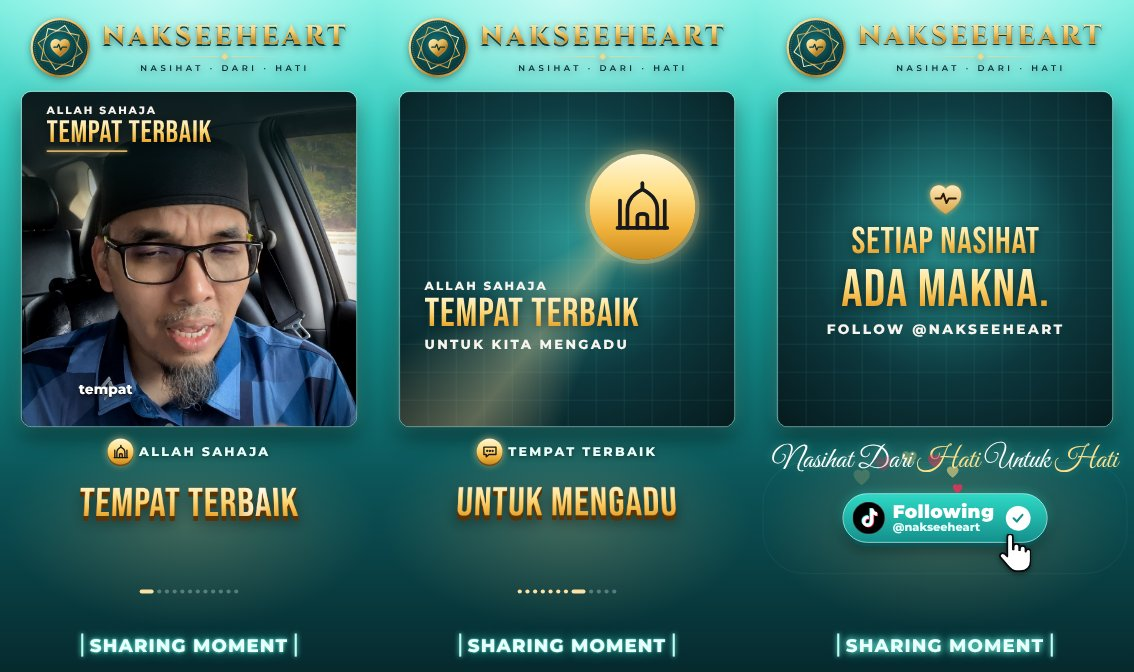
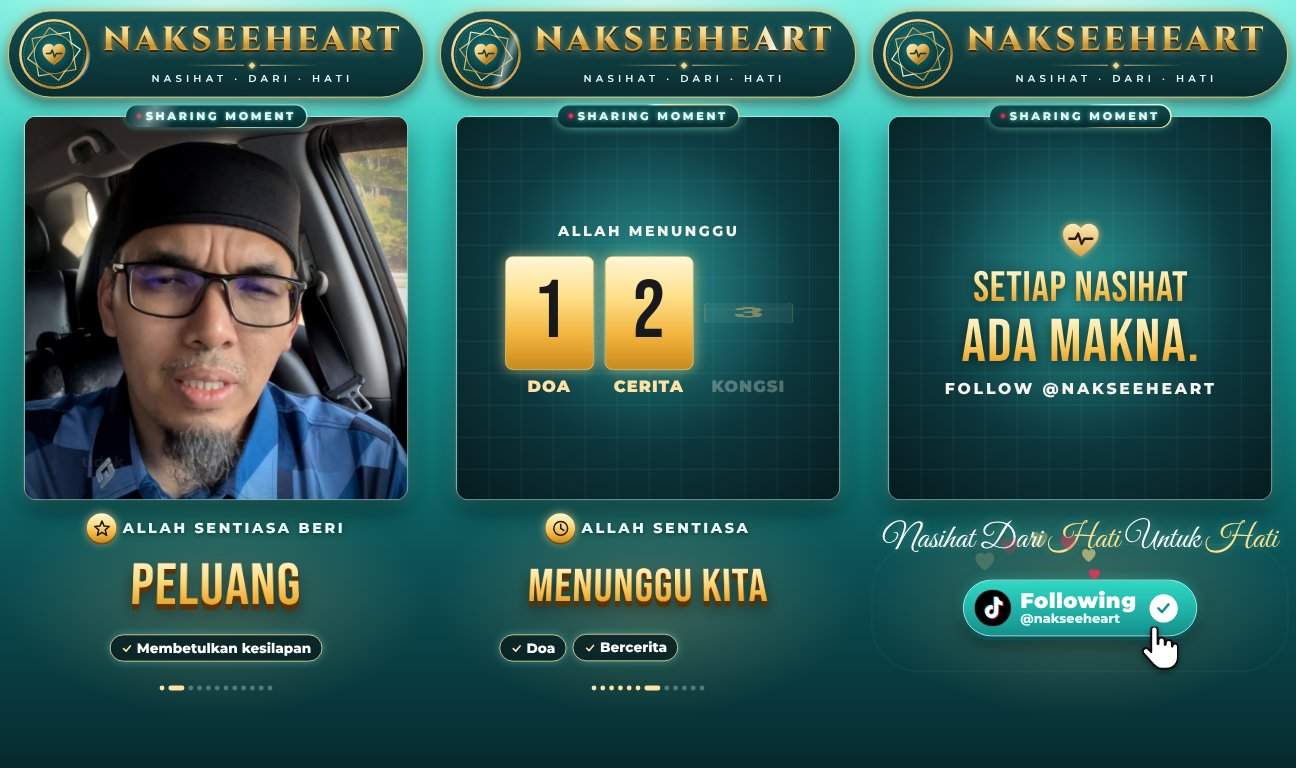
Nasihat V4: SHARING MOMENT jadi label kecil atas panel dengan cahaya bergerak
Claude-Session: https://claude.ai/code/session_012bACtUvdqMXn5RVzcwWnfk

diff --git a/styles/nasihat-v4/overlay/src/Showcase.tsx b/styles/nasihat-v4/overlay/src/Showcase.tsx
@@ -276,14 +276,14 @@ const Point3D: React.FC<{ p: Point; idx: number }> = ({ p, idx }) => {
   return (
     <AbsoluteFill style={{ opacity: o }}>
       {/* nombor point + ikon */}
-      <div style={{ position: 'absolute', left: 540, top: 1290, transform: `translate(-50%,-50%) scale(${0.6 + 0.4 * pin})`, display: 'flex', alignItems: 'center', gap: 16 }}>
+      <div style={{ position: 'absolute', left: 540, top: 1320, transform: `translate(-50%,-50%) scale(${0.6 + 0.4 * pin})`, display: 'flex', alignItems: 'center', gap: 16 }}>
         <div style={{ width: 74, height: 74, borderRadius: '50%', background: GOLD, display: 'flex', alignItems: 'center', justifyContent: 'center', boxShadow: '0 5px 0 #7A4A0C, 0 0 24px rgba(255,214,140,0.7)' }}>
           <LineIcon name={p.icon} size={48} color={C.charcoal} stroke={8} />
         </div>
         <div style={{ fontFamily: FONT.sans, fontWeight: 800, fontSize: 36, letterSpacing: '0.18em', color: '#E9FFFB', textShadow: '0 3px 12px rgba(0,0,0,0.5)', whiteSpace: 'nowrap' }}>{p.small}</div>
       </div>
       {/* tulisan 3D emas */}
-      <div style={{ position: 'absolute', left: 540, top: 1440 + bob, transform: `translate(-50%,-50%) perspective(1200px) rotateX(${(1 - pin) * 60 + 12}deg) scale(${0.85 + 0.15 * pin})`, whiteSpace: 'nowrap' }}>
+      <div style={{ position: 'absolute', left: 540, top: 1470 + bob, transform: `translate(-50%,-50%) perspective(1200px) rotateX(${(1 - pin) * 60 + 12}deg) scale(${0.85 + 0.15 * pin})`, whiteSpace: 'nowrap' }}>
         <div style={{ position: 'relative', fontFamily: FONT.display, fontSize: size, lineHeight: 1, letterSpacing: '0.02em' }}>
           <div style={{ color: '#7A4A0C', textShadow: Array.from({ length: 12 }, (_, i) => `0 ${i * 1.3}px 0 #5A3406`).join(', ') + ', 0 24px 40px rgba(0,0,0,0.55)' }}>{p.big}</div>
           <div style={{ position: 'absolute', inset: 0, backgroundImage: GOLD, WebkitBackgroundClip: 'text', backgroundClip: 'text', color: 'transparent' }}>{p.big}</div>
@@ -293,7 +293,7 @@ const Point3D: React.FC<{ p: Point; idx: number }> = ({ p, idx }) => {
       </div>
       {/* cip point */}
       {p.chips && (
-        <div style={{ position: 'absolute', left: 540, top: 1590, transform: 'translate(-50%,-50%)', display: 'flex', gap: 16 }}>
+        <div style={{ position: 'absolute', left: 540, top: 1620, transform: 'translate(-50%,-50%)', display: 'flex', gap: 16 }}>
           {p.chips.map((c, i) => {
             const q = tw(t, [c.at - 0.1, c.at + 0.35], [0, 1], back);
             return (
@@ -307,7 +307,7 @@ const Point3D: React.FC<{ p: Point; idx: number }> = ({ p, idx }) => {
         </div>
       )}
       {/* penanda kemajuan */}
-      <div style={{ position: 'absolute', left: 540, top: 1690, transform: 'translate(-50%,-50%)', display: 'flex', gap: 10 }}>
+      <div style={{ position: 'absolute', left: 540, top: 1720, transform: 'translate(-50%,-50%)', display: 'flex', gap: 10 }}>
         {PTS.map((_, i) => <div key={i} style={{ width: i === idx ? 40 : 12, height: 12, borderRadius: 6, background: i <= idx ? C.goldLight : 'rgba(233,255,251,0.3)' }} />)}
       </div>
     </AbsoluteFill>
@@ -336,20 +336,20 @@ const FollowCTA: React.FC = () => {
   const pulse = done ? 1 : 1 + 0.03 * Math.sin((t - B.cta) * 7);
   // kursor tangan masuk dari kanan bawah ke butang
   const cur = tw(t, [B.cta + 1.0, CLICK - 0.1], [0, 1], easeOut);
-  const cx = 540 + 150 + (1 - cur) * 330, cy = 1525 + (1 - cur) * 330;
+  const cx = 540 + 150 + (1 - cur) * 330, cy = 1565 + (1 - cur) * 330;
   const curO = tw(t, [B.cta + 1.0, B.cta + 1.2], [0, 1]) * tw(t, [CLICK + 0.9, CLICK + 1.3], [1, 0]);
   const rip = tw(t, [CLICK, CLICK + 0.7], [0, 1], easeOut);
   return (
     <AbsoluteFill>
       {/* kapsyen tandatangan */}
-      <div style={{ position: 'absolute', left: 0, right: 0, top: 1265, textAlign: 'center' }}>
+      <div style={{ position: 'absolute', left: 0, right: 0, top: 1300, textAlign: 'center' }}>
         <div style={{ display: 'inline-block', fontFamily: "'Great Vibes', cursive", fontSize: 84, lineHeight: 1.2, color: '#FFFFFF', padding: '0 30px', whiteSpace: 'nowrap',
           textShadow: '0 0 20px rgba(120,255,235,0.6), 0 4px 12px rgba(0,0,0,0.4)', clipPath: `inset(-30% ${100 - capIn * 100}% -30% -5%)` }}>
           {SC.cta.caption.split(/(\*[^*]+\*)/).map((w, i) => w.startsWith('*') ? <span key={i} style={{ color: '#FFE08A' }}>{w.slice(1, -1)}</span> : <React.Fragment key={i}>{w}</React.Fragment>)}
         </div>
       </div>
       {/* butang Follow TikTok */}
-      <div style={{ position: 'absolute', left: 540, top: 1480, transform: `translate(-50%,-50%) scale(${btnIn * press * pulse})`, opacity: Math.min(1, btnIn * 1.5) }}>
+      <div style={{ position: 'absolute', left: 540, top: 1520, transform: `translate(-50%,-50%) scale(${btnIn * press * pulse})`, opacity: Math.min(1, btnIn * 1.5) }}>
         <div style={{ position: 'absolute', left: '50%', top: '50%', width: 760 * (0.6 + rip * 0.8), height: 150 * (0.6 + rip * 1.6), borderRadius: 120,
           transform: 'translate(-50%,-50%)', border: '4px solid rgba(191,255,245,0.9)', opacity: done ? 1 - rip : 0 }} />
         <div style={{ display: 'flex', alignItems: 'center', gap: 22, padding: '22px 46px 22px 26px', borderRadius: 80, whiteSpace: 'nowrap',
@@ -374,7 +374,7 @@ const FollowCTA: React.FC = () => {
       {done && Array.from({ length: 8 }, (_, i) => {
         const q = tw(t, [CLICK + i * 0.05, CLICK + 1.2 + i * 0.05], [0, 1], easeOut);
         const ang = -Math.PI / 2 + (i - 3.5) * 0.32;
-        return <div key={i} style={{ position: 'absolute', left: 540 + Math.cos(ang) * 320 * q, top: 1440 + Math.sin(ang) * 220 * q, opacity: (1 - q) * (q > 0 ? 1 : 0),
+        return <div key={i} style={{ position: 'absolute', left: 540 + Math.cos(ang) * 320 * q, top: 1480 + Math.sin(ang) * 220 * q, opacity: (1 - q) * (q > 0 ? 1 : 0),
           transform: `translate(-50%,-50%) scale(${0.6 + q})`, fontSize: 0 }}>
           <svg width="44" height="40" viewBox="0 0 24 22"><path d="M12 21s-9-5.6-9-12A5 5 0 0 1 12 6a5 5 0 0 1 9 3c0 6.4-9 12-9 12z" fill={i % 2 ? '#FE2C55' : '#FFE08A'} /></svg>
         </div>;
@@ -455,6 +455,30 @@ const PremiumLogo: React.FC = () => {
   );
 };
 
+/* ------------------------------------------------- label kecil SHARING MOMENT (atas panel) + cahaya bergerak */
+const MomentBadge: React.FC<{ y: number }> = ({ y }) => {
+  const t = useTime();
+  const pin = tw(t, [0.6, 1.2], [0, 1], back);
+  const ang = (t * 140) % 360; // cahaya berlari di sekeliling bingkai
+  const sw = ((t * 0.55) % 1) * 300 - 100; // sapuan cahaya pada teks
+  const glow = 0.55 + 0.45 * Math.sin(t * 3.2);
+  return (
+    <div style={{ position: 'absolute', left: 540, top: y, transform: `translate(-50%,-50%) scale(${pin})`, opacity: Math.min(1, pin * 1.5) }}>
+      <div style={{ padding: 3, borderRadius: 40, background: `conic-gradient(from ${ang}deg, rgba(120,255,235,0.15) 0deg, #BFFFF5 40deg, #FFE08A 70deg, rgba(120,255,235,0.15) 120deg, rgba(120,255,235,0.15) 360deg)`,
+        boxShadow: `0 0 ${14 + 14 * glow}px rgba(120,255,235,${0.45 + 0.35 * glow}), 0 8px 18px rgba(0,0,0,0.45)` }}>
+        <div style={{ position: 'relative', overflow: 'hidden', display: 'flex', alignItems: 'center', gap: 12, padding: '9px 26px', borderRadius: 37,
+          background: 'linear-gradient(180deg, #0E4A4E 0%, #062A2E 100%)' }}>
+          <div style={{ width: 12, height: 12, borderRadius: '50%', background: '#FE2C55', boxShadow: `0 0 ${6 + 8 * glow}px rgba(254,44,85,0.9)`, opacity: 0.6 + 0.4 * glow }} />
+          <span style={{ fontFamily: FONT.sans, fontWeight: 800, fontSize: 28, letterSpacing: '0.24em', color: '#E9FFFB', whiteSpace: 'nowrap',
+            textShadow: `0 0 ${8 + 8 * glow}px rgba(120,255,235,0.85)` }}>{SC.label}</span>
+          <div style={{ position: 'absolute', top: -10, bottom: -10, left: `${sw}%`, width: '28%', transform: 'skewX(-24deg)',
+            background: 'linear-gradient(90deg, rgba(255,255,255,0), rgba(255,255,255,0.38), rgba(255,255,255,0))' }} />
+        </div>
+      </div>
+    </div>
+  );
+};
+
 /** Bingkai 9:16: tandatangan di atas, SATU panel suntingan, point penting 3D di bawah */
 export const Showcase: React.FC = () => {
   const t = useTime();
@@ -465,7 +489,7 @@ export const Showcase: React.FC = () => {
       <AbsoluteFill style={{ background: 'radial-gradient(ellipse 70% 22% at 50% 78%, rgba(255,214,140,0.22), rgba(0,0,0,0) 70%)' }} />
       <PremiumLogo />
       {/* SATU panel suntingan */}
-      <div style={{ position: 'absolute', left: 60, top: 260, width: FW, height: FW, borderRadius: 30, overflow: 'hidden', border: '3px solid rgba(255,255,255,0.65)', boxShadow: '0 30px 60px rgba(0,0,0,0.45), 0 0 40px rgba(120,255,235,0.35)' }}>
+      <div style={{ position: 'absolute', left: 60, top: 290, width: FW, height: FW, borderRadius: 30, overflow: 'hidden', border: '3px solid rgba(255,255,255,0.65)', boxShadow: '0 30px 60px rgba(0,0,0,0.45), 0 0 40px rgba(120,255,235,0.35)' }}>
         <div style={{ width: SQ, height: SQ, transform: `scale(${FW / SQ})`, transformOrigin: '0 0' }}>
           <KineticFinal />
         </div>
@@ -473,15 +497,7 @@ export const Showcase: React.FC = () => {
       {/* point penting: tulisan 3D + motion graphics */}
       {PTS.map((p, i) => <Point3D key={i} p={p} idx={i} />)}
       <FollowCTA />
-      {/* label neon */}
-      <div style={{ position: 'absolute', left: 0, right: 0, top: 1810, display: 'flex', justifyContent: 'center' }}>
-        <div style={{ display: 'flex', alignItems: 'center', gap: 18, fontFamily: FONT.sans, fontWeight: 700, fontSize: 52, letterSpacing: '0.06em', color: '#E9FFFB',
-          textShadow: `0 0 ${12 + 6 * Math.sin(t * 3)}px rgba(120,255,235,0.95), 0 0 34px rgba(64,224,208,0.85)` }}>
-          <span style={{ width: 6, height: 66, background: '#BFFFF5', boxShadow: '0 0 16px rgba(120,255,235,1)' }} />
-          {SC.label}
-          <span style={{ width: 6, height: 66, background: '#BFFFF5', boxShadow: '0 0 16px rgba(120,255,235,1)' }} />
-        </div>
-      </div>
+      <MomentBadge y={290} />
       <Audio src={staticFile('audio/mix.wav')} />
     </AbsoluteFill>
   );

diff --git a/video-nakseeheart-allah-beri-peluang/src/Showcase.tsx b/video-nakseeheart-allah-beri-peluang/src/Showcase.tsx
@@ -276,14 +276,14 @@ const Point3D: React.FC<{ p: Point; idx: number }> = ({ p, idx }) => {
   return (
     <AbsoluteFill style={{ opacity: o }}>
       {/* nombor point + ikon */}
-      <div style={{ position: 'absolute', left: 540, top: 1290, transform: `translate(-50%,-50%) scale(${0.6 + 0.4 * pin})`, display: 'flex', alignItems: 'center', gap: 16 }}>
+      <div style={{ position: 'absolute', left: 540, top: 1320, transform: `translate(-50%,-50%) scale(${0.6 + 0.4 * pin})`, display: 'flex', alignItems: 'center', gap: 16 }}>
         <div style={{ width: 74, height: 74, borderRadius: '50%', background: GOLD, display: 'flex', alignItems: 'center', justifyContent: 'center', boxShadow: '0 5px 0 #7A4A0C, 0 0 24px rgba(255,214,140,0.7)' }}>
           <LineIcon name={p.icon} size={48} color={C.charcoal} stroke={8} />
         </div>
         <div style={{ fontFamily: FONT.sans, fontWeight: 800, fontSize: 36, letterSpacing: '0.18em', color: '#E9FFFB', textShadow: '0 3px 12px rgba(0,0,0,0.5)', whiteSpace: 'nowrap' }}>{p.small}</div>
       </div>
       {/* tulisan 3D emas */}
-      <div style={{ position: 'absolute', left: 540, top: 1440 + bob, transform: `translate(-50%,-50%) perspective(1200px) rotateX(${(1 - pin) * 60 + 12}deg) scale(${0.85 + 0.15 * pin})`, whiteSpace: 'nowrap' }}>
+      <div style={{ position: 'absolute', left: 540, top: 1470 + bob, transform: `translate(-50%,-50%) perspective(1200px) rotateX(${(1 - pin) * 60 + 12}deg) scale(${0.85 + 0.15 * pin})`, whiteSpace: 'nowrap' }}>
         <div style={{ position: 'relative', fontFamily: FONT.display, fontSize: size, lineHeight: 1, letterSpacing: '0.02em' }}>
           <div style={{ color: '#7A4A0C', textShadow: Array.from({ length: 12 }, (_, i) => `0 ${i * 1.3}px 0 #5A3406`).join(', ') + ', 0 24px 40px rgba(0,0,0,0.55)' }}>{p.big}</div>
           <div style={{ position: 'absolute', inset: 0, backgroundImage: GOLD, WebkitBackgroundClip: 'text', backgroundClip: 'text', color: 'transparent' }}>{p.big}</div>
@@ -293,7 +293,7 @@ const Point3D: React.FC<{ p: Point; idx: number }> = ({ p, idx }) => {
       </div>
       {/* cip point */}
       {p.chips && (
-        <div style={{ position: 'absolute', left: 540, top: 1590, transform: 'translate(-50%,-50%)', display: 'flex', gap: 16 }}>
+        <div style={{ position: 'absolute', left: 540, top: 1620, transform: 'translate(-50%,-50%)', display: 'flex', gap: 16 }}>
           {p.chips.map((c, i) => {
             const q = tw(t, [c.at - 0.1, c.at + 0.35], [0, 1], back);
             return (
@@ -307,7 +307,7 @@ const Point3D: React.FC<{ p: Point; idx: number }> = ({ p, idx }) => {
         </div>
       )}
       {/* penanda kemajuan */}
-      <div style={{ position: 'absolute', left: 540, top: 1690, transform: 'translate(-50%,-50%)', display: 'flex', gap: 10 }}>
+      <div style={{ position: 'absolute', left: 540, top: 1720, transform: 'translate(-50%,-50%)', display: 'flex', gap: 10 }}>
         {PTS.map((_, i) => <div key={i} style={{ width: i === idx ? 40 : 12, height: 12, borderRadius: 6, background: i <= idx ? C.goldLight : 'rgba(233,255,251,0.3)' }} />)}
       </div>
     </AbsoluteFill>
@@ -336,20 +336,20 @@ const FollowCTA: React.FC = () => {
   const pulse = done ? 1 : 1 + 0.03 * Math.sin((t - B.cta) * 7);
   // kursor tangan masuk dari kanan bawah ke butang
   const cur = tw(t, [B.cta + 1.0, CLICK - 0.1], [0, 1], easeOut);
-  const cx = 540 + 150 + (1 - cur) * 330, cy = 1525 + (1 - cur) * 330;
+  const cx = 540 + 150 + (1 - cur) * 330, cy = 1565 + (1 - cur) * 330;
   const curO = tw(t, [B.cta + 1.0, B.cta + 1.2], [0, 1]) * tw(t, [CLICK + 0.9, CLICK + 1.3], [1, 0]);
   const rip = tw(t, [CLICK, CLICK + 0.7], [0, 1], easeOut);
   return (
     <AbsoluteFill>
       {/* kapsyen tandatangan */}
-      <div style={{ position: 'absolute', left: 0, right: 0, top: 1265, textAlign: 'center' }}>
+      <div style={{ position: 'absolute', left: 0, right: 0, top: 1300, textAlign: 'center' }}>
         <div style={{ display: 'inline-block', fontFamily: "'Great Vibes', cursive", fontSize: 84, lineHeight: 1.2, color: '#FFFFFF', padding: '0 30px', whiteSpace: 'nowrap',
           textShadow: '0 0 20px rgba(120,255,235,0.6), 0 4px 12px rgba(0,0,0,0.4)', clipPath: `inset(-30% ${100 - capIn * 100}% -30% -5%)` }}>
           {SC.cta.caption.split(/(\*[^*]+\*)/).map((w, i) => w.startsWith('*') ? <span key={i} style={{ color: '#FFE08A' }}>{w.slice(1, -1)}</span> : <React.Fragment key={i}>{w}</React.Fragment>)}
         </div>
       </div>
       {/* butang Follow TikTok */}
-      <div style={{ position: 'absolute', left: 540, top: 1480, transform: `translate(-50%,-50%) scale(${btnIn * press * pulse})`, opacity: Math.min(1, btnIn * 1.5) }}>
+      <div style={{ position: 'absolute', left: 540, top: 1520, transform: `translate(-50%,-50%) scale(${btnIn * press * pulse})`, opacity: Math.min(1, btnIn * 1.5) }}>
         <div style={{ position: 'absolute', left: '50%', top: '50%', width: 760 * (0.6 + rip * 0.8), height: 150 * (0.6 + rip * 1.6), borderRadius: 120,
           transform: 'translate(-50%,-50%)', border: '4px solid rgba(191,255,245,0.9)', opacity: done ? 1 - rip : 0 }} />
         <div style={{ display: 'flex', alignItems: 'center', gap: 22, padding: '22px 46px 22px 26px', borderRadius: 80, whiteSpace: 'nowrap',
@@ -374,7 +374,7 @@ const FollowCTA: React.FC = () => {
       {done && Array.from({ length: 8 }, (_, i) => {
         const q = tw(t, [CLICK + i * 0.05, CLICK + 1.2 + i * 0.05], [0, 1], easeOut);
         const ang = -Math.PI / 2 + (i - 3.5) * 0.32;
-        return <div key={i} style={{ position: 'absolute', left: 540 + Math.cos(ang) * 320 * q, top: 1440 + Math.sin(ang) * 220 * q, opacity: (1 - q) * (q > 0 ? 1 : 0),
+        return <div key={i} style={{ position: 'absolute', left: 540 + Math.cos(ang) * 320 * q, top: 1480 + Math.sin(ang) * 220 * q, opacity: (1 - q) * (q > 0 ? 1 : 0),
           transform: `translate(-50%,-50%) scale(${0.6 + q})`, fontSize: 0 }}>
           <svg width="44" height="40" viewBox="0 0 24 22"><path d="M12 21s-9-5.6-9-12A5 5 0 0 1 12 6a5 5 0 0 1 9 3c0 6.4-9 12-9 12z" fill={i % 2 ? '#FE2C55' : '#FFE08A'} /></svg>
         </div>;
@@ -455,6 +455,30 @@ const PremiumLogo: React.FC = () => {
   );
 };
 
+/* ------------------------------------------------- label kecil SHARING MOMENT (atas panel) + cahaya bergerak */
+const MomentBadge: React.FC<{ y: number }> = ({ y }) => {
+  const t = useTime();
+  const pin = tw(t, [0.6, 1.2], [0, 1], back);
+  const ang = (t * 140) % 360; // cahaya berlari di sekeliling bingkai
+  const sw = ((t * 0.55) % 1) * 300 - 100; // sapuan cahaya pada teks
+  const glow = 0.55 + 0.45 * Math.sin(t * 3.2);
+  return (
+    <div style={{ position: 'absolute', left: 540, top: y, transform: `translate(-50%,-50%) scale(${pin})`, opacity: Math.min(1, pin * 1.5) }}>
+      <div style={{ padding: 3, borderRadius: 40, background: `conic-gradient(from ${ang}deg, rgba(120,255,235,0.15) 0deg, #BFFFF5 40deg, #FFE08A 70deg, rgba(120,255,235,0.15) 120deg, rgba(120,255,235,0.15) 360deg)`,
+        boxShadow: `0 0 ${14 + 14 * glow}px rgba(120,255,235,${0.45 + 0.35 * glow}), 0 8px 18px rgba(0,0,0,0.45)` }}>
+        <div style={{ position: 'relative', overflow: 'hidden', display: 'flex', alignItems: 'center', gap: 12, padding: '9px 26px', borderRadius: 37,
+          background: 'linear-gradient(180deg, #0E4A4E 0%, #062A2E 100%)' }}>
+          <div style={{ width: 12, height: 12, borderRadius: '50%', background: '#FE2C55', boxShadow: `0 0 ${6 + 8 * glow}px rgba(254,44,85,0.9)`, opacity: 0.6 + 0.4 * glow }} />
+          <span style={{ fontFamily: FONT.sans, fontWeight: 800, fontSize: 28, letterSpacing: '0.24em', color: '#E9FFFB', whiteSpace: 'nowrap',
+            textShadow: `0 0 ${8 + 8 * glow}px rgba(120,255,235,0.85)` }}>{SC.label}</span>
+          <div style={{ position: 'absolute', top: -10, bottom: -10, left: `${sw}%`, width: '28%', transform: 'skewX(-24deg)',
+            background: 'linear-gradient(90deg, rgba(255,255,255,0), rgba(255,255,255,0.38), rgba(255,255,255,0))' }} />
+        </div>
+      </div>
+    </div>
+  );
+};
+
 /** Bingkai 9:16: tandatangan di atas, SATU panel suntingan, point penting 3D di bawah */
 export const Showcase: React.FC = () => {
   const t = useTime();
@@ -465,7 +489,7 @@ export const Showcase: React.FC = () => {
       <AbsoluteFill style={{ background: 'radial-gradient(ellipse 70% 22% at 50% 78%, rgba(255,214,140,0.22), rgba(0,0,0,0) 70%)' }} />
       <PremiumLogo />
       {/* SATU panel suntingan */}
-      <div style={{ position: 'absolute', left: 60, top: 260, width: FW, height: FW, borderRadius: 30, overflow: 'hidden', border: '3px solid rgba(255,255,255,0.65)', boxShadow: '0 30px 60px rgba(0,0,0,0.45), 0 0 40px rgba(120,255,235,0.35)' }}>
+      <div style={{ position: 'absolute', left: 60, top: 290, width: FW, height: FW, borderRadius: 30, overflow: 'hidden', border: '3px solid rgba(255,255,255,0.65)', boxShadow: '0 30px 60px rgba(0,0,0,0.45), 0 0 40px rgba(120,255,235,0.35)' }}>
         <div style={{ width: SQ, height: SQ, transform: `scale(${FW / SQ})`, transformOrigin: '0 0' }}>
           <KineticFinal />
         </div>
@@ -473,15 +497,7 @@ export const Showcase: React.FC = () => {
       {/* point penting: tulisan 3D + motion graphics */}
       {PTS.map((p, i) => <Point3D key={i} p={p} idx={i} />)}
       <FollowCTA />
-      {/* label neon */}
-      <div style={{ position: 'absolute', left: 0, right: 0, top: 1810, display: 'flex', justifyContent: 'center' }}>
-        <div style={{ display: 'flex', alignItems: 'center', gap: 18, fontFamily: FONT.sans, fontWeight: 700, fontSize: 52, letterSpacing: '0.06em', color: '#E9FFFB',
-          textShadow: `0 0 ${12 + 6 * Math.sin(t * 3)}px rgba(120,255,235,0.95), 0 0 34px rgba(64,224,208,0.85)` }}>
-          <span style={{ width: 6, height: 66, background: '#BFFFF5', boxShadow: '0 0 16px rgba(120,255,235,1)' }} />
-          {SC.label}
-          <span style={{ width: 6, height: 66, background: '#BFFFF5', boxShadow: '0 0 16px rgba(120,255,235,1)' }} />
-        </div>
-      </div>
+      <MomentBadge y={290} />
       <Audio src={staticFile('audio/mix.wav')} />
     </AbsoluteFill>
   );

diff --git a/styles/nasihat-v4/STYLE.md b/styles/nasihat-v4/STYLE.md
@@ -6,15 +6,14 @@ Video nasihat NakSeeHeart 9:16 (1080×1920, 30 fps, 60–120 s) dalam bentuk **b
 ┌──────────────────────────────┐
 │ (◎) NAKSEEHEART              │  ← logo premium atas plak gelap berbingkai emas: medalion (bintang 8 bucu berputar + hati
 │     ──◆── NASIHAT·DARI·HATI   │    berdenyut) + tanda kata Cinzel emas berkilau + tagline
-│ ┌──────────────────────────┐ │
-│ │                          │ │  ← SATU panel 960×960: suntingan kinetic typography
+│ ┌──[● SHARING MOMENT]──────┐ │  ← label kecil di bucu atas panel: cahaya berlari di bingkai + sapuan cahaya
+│ │                          │ │  ← SATU panel 960×960 (top 290): suntingan kinetic typography
 │ │  wajah penceramah ⇄ kad  │ │    (wajah diselang-seli dengan kad grafik skrin penuh)
 │ │  grafik skrin penuh      │ │
 │ └──────────────────────────┘ │
 │ (ikon) KATA KECIL            │  ← point penting: tulisan 3D emas + cip ✓ ikut beat
 │   POINT UTAMA 3D             │    + penanda kemajuan (titik)
 │   [✓ cip] [✓ cip]            │
-│ |SHARING MOMENT|             │  ← label neon turquoise
 └──────────────────────────────┘
 ```
 
@@ -45,7 +44,7 @@ Masa = saat output **atau nama beat** dalam `timeline.json` (cth `"cta"`, `"end"
 | `face {x,y}` | titik tengah wajah dalam bingkai 1080×1920 (panel memotong segi empat di sekitarnya) |
 | `zoom [..]` | zum berselang-seli setiap segmen EDL (lalai `[1.0, 1.12]`) |
 | `logo {name, tagline}` | `NAKSEEHEART`, `NASIHAT · DARI · HATI` |
-| `label` | label neon bawah (`SHARING MOMENT`) |
+| `label` | label kecil bercahaya di atas panel (`SHARING MOMENT`) |
 | `cta {caption, handle, clickAfter, cardTop, cardBig}` | kapsyen tandatangan (`*kata*` = emas), handle TikTok, saat klik selepas beat `cta`, teks kad CTA dalam panel |
 | `scenes[]` | babak dalam panel (jadual bawah) |
 | `points[]` | point penting di bawah panel |

diff --git a/.claude/skills/nasihat-v4/SKILL.md b/.claude/skills/nasihat-v4/SKILL.md
@@ -1,6 +1,6 @@
 ---
 name: nasihat-v4
-description: Hasilkan video nasihat NakSeeHeart 9:16 dalam style "Nasihat V4" — logo premium NAKSEEHEART (medalion emas), SATU panel suntingan kinetic typography (wajah penceramah ⇄ kad grafik), point penting tulisan 3D emas di bawah panel, latar turquoise, label neon SHARING MOMENT, dan CTA butang Follow TikTok dengan kursor klik + bunyi klik + kapsyen "Nasihat Dari Hati Untuk Hati". Guna bila pengguna minta style Nasihat V4 / "V4" / "seperti video Allah Sentiasa Beri Peluang (showcase)".
+description: Hasilkan video nasihat NakSeeHeart 9:16 dalam style "Nasihat V4" — logo premium NAKSEEHEART (medalion emas), SATU panel suntingan kinetic typography (wajah penceramah ⇄ kad grafik), point penting tulisan 3D emas di bawah panel, latar turquoise, label kecil bercahaya SHARING MOMENT di atas panel, dan CTA butang Follow TikTok dengan kursor klik + bunyi klik + kapsyen "Nasihat Dari Hati Untuk Hati". Guna bila pengguna minta style Nasihat V4 / "V4" / "seperti video Allah Sentiasa Beri Peluang (showcase)".
 ---
 
 # Style Nasihat V4 — aliran kerja
